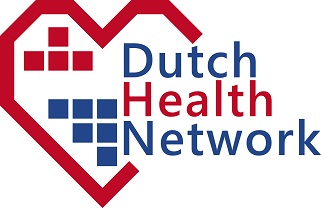
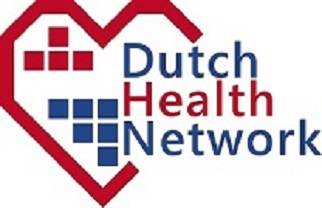
small changes

diff --git a/jobs_draft.html b/jobs_draft.html
@@ -98,7 +98,7 @@
 											<div class="panel col-lg-4 col-md-6 col-sd-6">
 											  <a data-toggle="modal" data-target="#Modal1">
 												
-                                                <img src="images/placeholder-logo.png" class="img-fluid rounded  d-block mx-auto" height="125" width="125">
+                                                <img src="images/dhn.jpg" class="img-fluid rounded  d-block mx-auto" >
                                                 <!-- <div class="d-flex justify-content-around"><b>Duration: </b> 1 Month </div> -->
 												<!-- <div class="d-flex justify-content-around"><b>Earning:</b>30 Euro</div> -->
 								
@@ -180,7 +180,7 @@
 
                                             <div class="panel col-lg-4 col-md-6 col-sd-6">
 											<a data-toggle="modal" data-target="#Modal2">
-                                                <img src="images/placeholder-logo.png" class="img-fluid rounded  d-block mx-auto" height="125" width="125">
+                                                <img src="images/placeholder-logo.png" class="img-fluid rounded img-responsive  d-block mx-auto" >
                                                 <!-- <div class="d-flex justify-content-around"><b>Duration: </b>  15 Minutes</div> -->
 												<!-- <div class="d-flex justify-content-around" ><b>Earning: </b>  2,50 Euro</div> -->
 												

diff --git a/jobs.html b/jobs.html
@@ -49,8 +49,8 @@
             <ul class="navbar-nav navbar-right">
 			<li class="nav-item">
 				<!-- Search form -->
-				<input class="form-control" type="text" placeholder="Search" aria-label="Search">
-				</li>
+				<!-- <input class="form-control" type="text" placeholder="Search" aria-label="Search"> -->
+				<!-- </li> -->
                 <li class="nav-item">
 				   <a class="nav-link" href="user_info.html">Log In</a>
                 </li>
